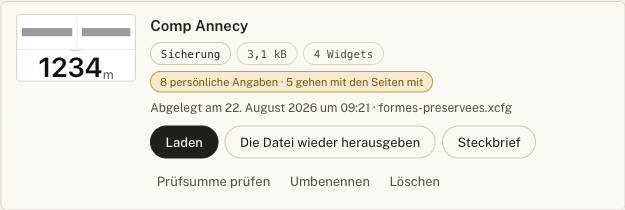
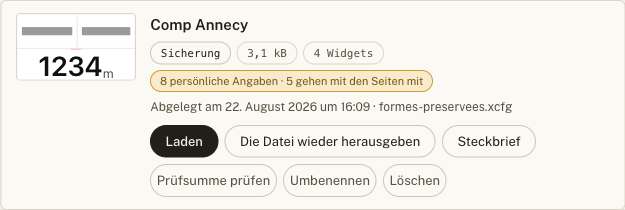
docs(manuel): la figure d'une entrée de bibliothèque montre le filet rendu aux commandes
Le chapitre 11 illustre une entrée rangée. Sur la figure, « Vérifier l'empreinte »,
« Renommer » et « Supprimer » n'avaient aucun filet — la même péremption que la capture
du README, prise du même écran, et manquée parce que ces dix images vivent ailleurs
(public/manuel/, seul répertoire que Vite recopie tel quel).

Les cinq exemplaires sont repris à l'identique : même fixture anonymisée, même viewport
de 700 points, même recadrage à la mesure relevée de `.library__entry` — 625 × 210, et
625 × 182 en anglais, où les six commandes tiennent sur un rang. Les attributs
width/height des cinq `<img>` restent donc justes, sans y toucher.

trois-issues.<langue>.png a été vérifiée au même moment et gardée : ses trois cartes ne
portent aucune commande discrète, et son texte est mot pour mot celui de l'écran.

docs-app/README.md dit maintenant comment le recadrage se calcule, pour que la prochaine
reprise n'ait pas à le redécouvrir.

Claude-Session: https://claude.ai/code/session_01SZwZAQePoKsAXbJFmpV4LC

diff --git a/docs-app/README.md b/docs-app/README.md
@@ -117,6 +117,18 @@ colonne sans être réduites. Fixtures anonymisées, comme partout —
 grises). La recette longue, avec l'état exact et les pièges, est celle des captures du
 `README.md` français : ces deux figures en sont des recadrages, pris au même endroit.
 
+**Le recadrage se calcule, il ne se devine pas** : `.library__entry` mesure 625,2 px de
+large et sa hauteur dépend de la langue (182 px en anglais, où les six commandes tiennent
+sur un rang, 210 dans les quatre autres, où elles passent sur deux). Prendre la boîte
+entière puis découper à la mesure relevée de l'élément — c'est ce qui garantit que le
+fichier et les attributs `width`/`height` du `<img>` restent d'accord.
+
+⚠ **`bibliotheque-entree.<langue>.png` a été refaite le 2026-08-22**, dans les cinq
+langues : « Vérifier l'empreinte », « Renommer » et « Supprimer » n'y avaient aucun filet,
+et les commandes discrètes de l'outil l'ont repris ce jour-là. `trois-issues.<langue>.png`
+a été vérifiée au même moment et **gardée** : ses trois cartes ne portent aucune commande
+discrète, et son texte est mot pour mot celui de l'écran.
+
 ## Les cinq langues
 
 Les cinq langues du socle `src/i18n/` sont `fr`, `en`, `nl`, `de`, `es`, et le manuel existe
